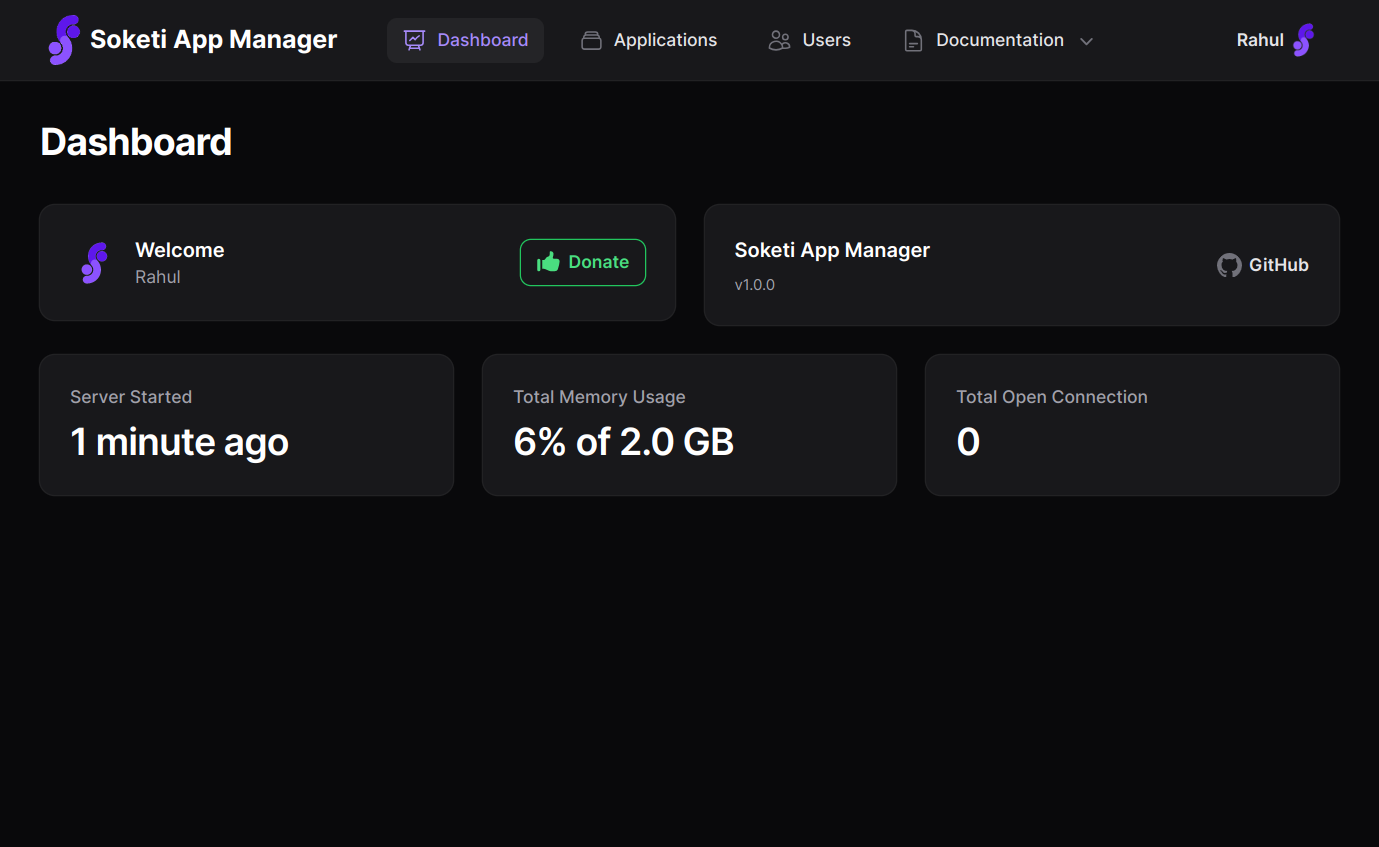
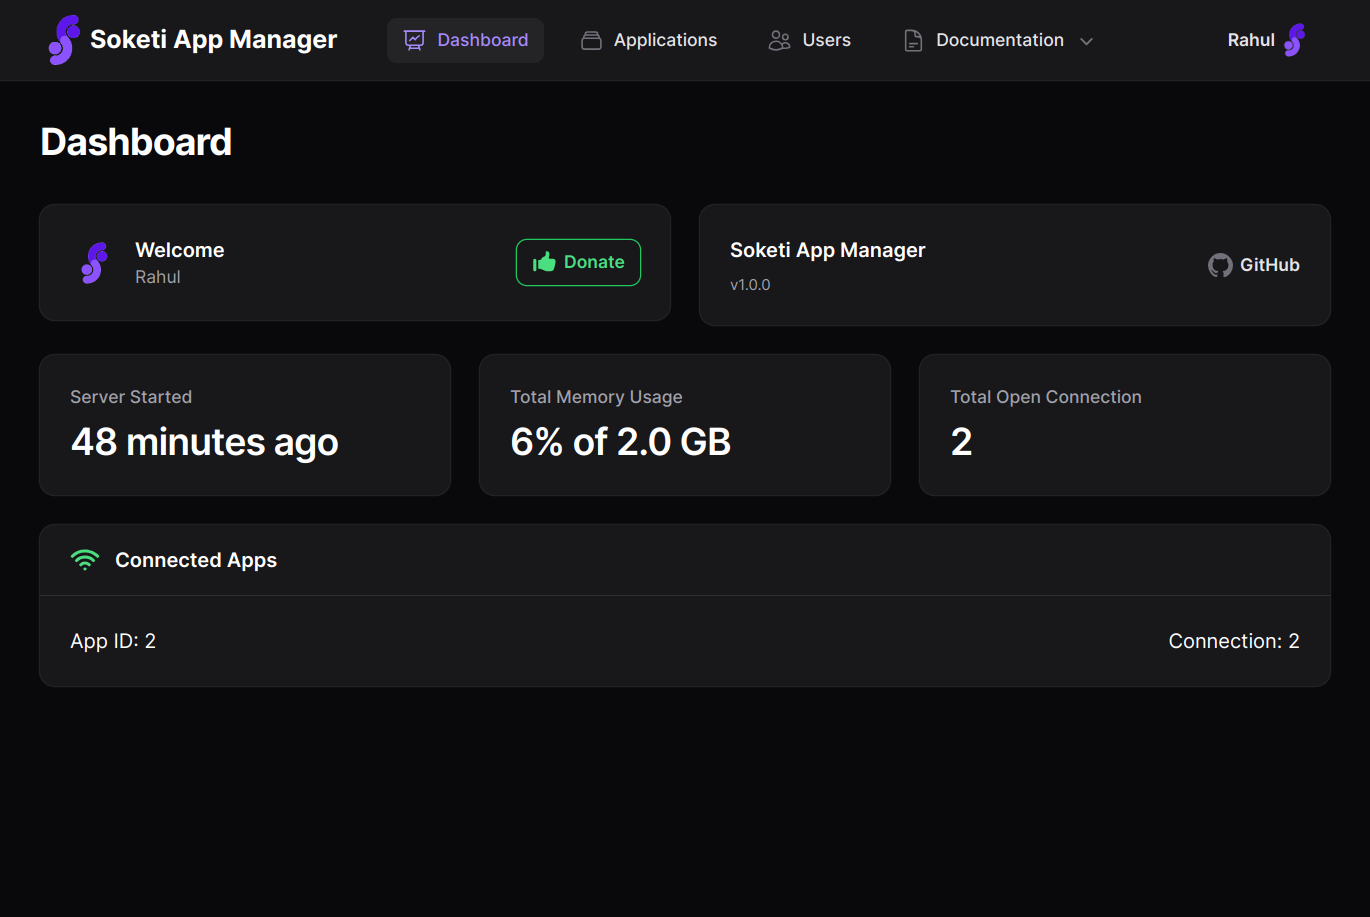
Connected apps widget added in dashboard 📈

diff --git a/resources/views/filament/widgets/server-stats-widget.blade.php b/resources/views/filament/widgets/server-stats-widget.blade.php
@@ -1,0 +1,45 @@
+@php
+    $columns = $this->getColumns();
+@endphp
+
+<x-filament-widgets::widget class="fi-wi-stats-overview">
+    <div
+        @if ($pollingInterval = $this->getPollingInterval())
+            wire:poll.{{ $pollingInterval }}
+        @endif
+        @class([
+            'fi-wi-stats-overview-stats-ctn grid gap-6',
+            'md:grid-cols-1' => $columns === 1,
+            'md:grid-cols-2' => $columns === 2,
+            'md:grid-cols-3' => $columns === 3,
+            'md:grid-cols-2 xl:grid-cols-4' => $columns === 4,
+        ])
+    >
+        @foreach ($this->getCachedStats() as $stat)
+            {{ $stat }}
+        @endforeach
+
+        @if (count($this->connectedApps) > 0)
+            <x-filament-widgets::widget>
+                <x-filament::section icon="heroicon-m-wifi" icon-color="success">
+                    <x-slot name="heading">
+                        Connected Apps
+                    </x-slot>
+
+                    <div class="divide-y divide-gray-200 dark:divide-white/10" style="margin: -1.5rem">
+                        @foreach ($this->connectedApps as $app)
+                            <div class="flex justify-between p-6 dark:border-white/10">
+                                <div>
+                                    App ID: {{ $app['json']['app_id'] }}
+                                </div>
+                                <div>
+                                    Connection: {{ $app['value'] }}
+                                </div>
+                            </div>
+                        @endforeach
+                    </div>
+                </x-filament::section>
+            </x-filament-widgets::widget>
+        @endif
+    </div>
+</x-filament-widgets::widget>

diff --git a/app/Filament/Widgets/ServerStatsWidget.php b/app/Filament/Widgets/ServerStatsWidget.php
@@ -7,13 +7,22 @@ use Filament\Widgets\StatsOverviewWidget\Stat;
 use Illuminate\Support\Facades\Http;
 use Illuminate\Support\Number;
 
-class ServerStats extends BaseWidget
+class ServerStatsWidget extends BaseWidget
 {
     protected static ?string $pollingInterval = '5s';
 
+    protected static string $view = 'filament.widgets.server-stats-widget';
+
+    protected array $connectedApps = [];
+
+    protected function getColumns(): int
+    {
+        return 3;
+    }
+
     public static function canView(): bool
     {
-        return config('metrics.enabled');
+        return config('metrics.enabled') && auth()->user()->is_admin;
     }
 
     protected function getStats(): array
@@ -23,8 +32,8 @@ class ServerStats extends BaseWidget
             $metrics = Http::timeout(5)->get(config('metrics.host').'/metrics');
 
             $soketiConnected = parse_prometheus('soketi_connected', $metrics->body());
-            $soketiMessageSent = parse_prometheus('soketi_ws_messages_sent_total', $metrics->body());
             $soketiProcessRuntime = parse_prometheus('soketi_process_start_time_seconds', $metrics->body());
+            $this->connectedApps = $soketiConnected->toArray();
 
             return [
                 Stat::make('Server Started', now()->subSeconds(time() - $soketiProcessRuntime->pluck('value')[0])->diffForHumans()),
@@ -44,6 +53,5 @@ class ServerStats extends BaseWidget
                     ->color('danger'),
             ];
         }
-
     }
 }

diff --git a/README.md b/README.md
@@ -3,12 +3,15 @@
 Simple frontend for [Soketi](https://soketi.app/) websocket server with a intuitive user interface. Made with [FilamentPHP](https://filamentphp.com/) and 💕
 
 **Soketi App Manager** provides a user-friendly interface for managing your Soketi websocket applications. You can effortlessly manage multiple websocket applications, streamlining your app management process. The whole setup process is made simpler so that anyone can easily get started with the Soketi websocket server. 🚀 It currently features -
-- Dashboard to show realtime server stats.
+- Dashboard to show realtime server stats and app connections.
 - Create, serve, view, edit, delete and search multiple websocket applications.
-- Interactive UI for managing application webhooks and filters.
-- Create and manage multiple users with different roles.
+- Interactive UI for managing application webhooks.
+- Interactive UI for managing webhook filters.
+- Create and manage multiple users with different roles (Admin/Non-admin).
 - Documentation for client and backend integration.
 - Light and dark theme.
+
+> Soketi app caching is enabled by default for an hour. Any modification to the app will not be reflected until the cache timeout expires. Adjust the time in any of the 'soketi.json' files you're using by editing the value of `appManager.cache.ttl`.
 
 Support the development with a ⭐ to let others know it worked for you.
 
